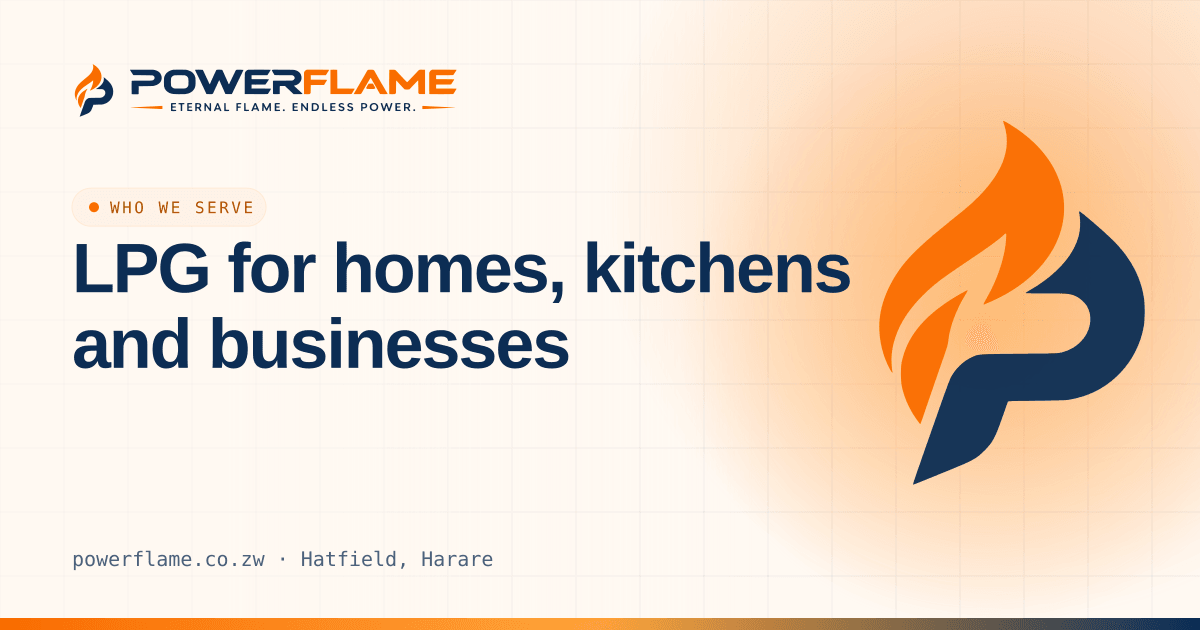
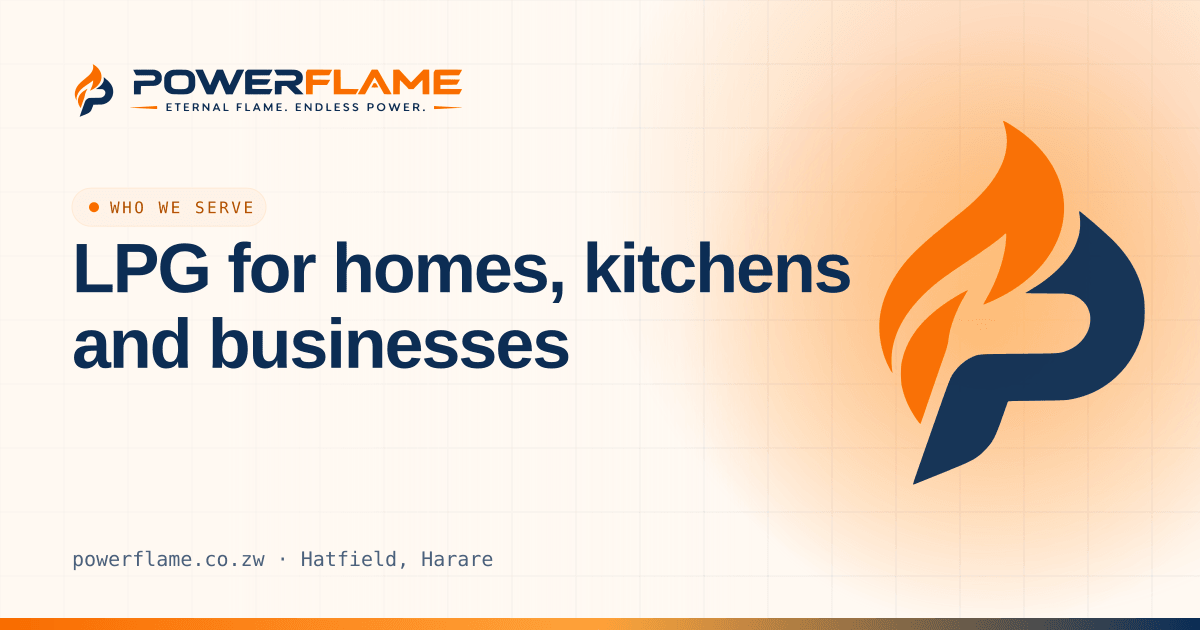
Add gradient for header fade effect in theme.css
- Introduced a new CSS variable `--gradient-header-fade` to create a smooth transition effect for the background behind the sticky header.
- The gradient fades the background color over the last 2rem to enhance visual continuity when scrolling.

Changed region(s): [[0.0925, 0.0905, 0.4008, 0.181], [0.925, 0.9952, 0.9558, 1.0], [0.4933, 0.9952, 0.5242, 1.0]]

diff --git a/src/components/ui/Logo/paths.ts b/src/components/ui/Logo/paths.ts
@@ -13,12 +13,12 @@ export const MARK_FLAME =
 export const MARK_P =
   'M28.84 12.19C29.13 13.82 28.95 15.18 28.27 16.62C27.28 18.7 25.19 20.75 22.49 22.31C22.09 22.54 21.76 22.75 21.76 22.77C21.76 22.8 22.99 22.82 24.49 22.82C27.53 22.82 27.69 22.84 28.52 23.25C29.06 23.52 29.75 24.19 29.98 24.71C30.99 26.86 29.62 29.54 27.06 30.42C26.18 30.73 26.31 30.72 20.94 30.76C15.33 30.81 15.68 30.78 14.68 31.23C13.59 31.72 12.48 32.81 11.92 33.93C11.72 34.31 10.38 38.05 8.56 43.29C8.16 44.44 7.63 45.95 7.39 46.64C7.14 47.33 6.96 47.92 6.97 47.95C7.01 48.01 7.12 47.96 8.82 47.26C9.58 46.95 10.96 46.39 11.88 46.02C14.9 44.79 15.34 44.55 16.44 43.44C17.46 42.41 17.83 41.72 18.73 39.12C19.11 38.04 19.44 37.11 19.46 37.06C19.51 36.98 20.01 36.96 23.24 36.94C27.26 36.9 27.31 36.9 28.68 36.55C33.11 35.43 36.49 31.76 37.33 27.21C37.48 26.41 37.51 24.51 37.39 23.62C37.01 20.77 35.65 18.19 33.27 15.81C32.32 14.85 29.01 12 28.86 12C28.84 12 28.82 12.09 28.84 12.19';
 
-/** Name block: "POWERFLAME" over the tagline, 251.23 × 32 viewBox */
-export const NAME_WIDTH = 251.23;
+/** Name block: "POWERFLAME" over the tagline, 255.53 × 32 viewBox */
+export const NAME_WIDTH = 255.53;
 export const NAME_HEIGHT = 32;
 /** Navy parts: "POWER" and the tagline lettering */
 export const NAME_NAVY =
-  'M0.12 0.08C-0.09 0.19-0.01 0.35 1.07 1.99C1.66 2.87 2.24 3.75 2.35 3.93L2.55 4.26 9.77 4.29C15.53 4.32 17.04 4.35 17.26 4.42C18.33 4.77 18.89 5.44 18.89 6.33C18.88 7.33 18.14 8.12 16.94 8.41C16.57 8.49 15.4 8.51 9.1 8.51C1.23 8.51 1.39 8.5 1.27 8.82C1.18 9.04 1.22 18.83 1.31 18.91C1.37 18.97 2.04 19 3.92 19C6.28 19 6.45 18.99 6.56 18.87C6.66 18.76 6.67 18.42 6.69 15.76L6.71 12.77 12.02 12.73C15.79 12.7 17.47 12.67 17.8 12.61C20.96 12.05 23.12 10.61 23.94 8.54C24.82 6.34 24.3 3.81 22.62 2.13C21.51 1.02 19.51 0.21 17.65 0.1C16.45 0.03 0.23 0.01 0.12 0.08M33.46 0.1C29.62 0.68 27.03 2.84 26.23 6.12C26.06 6.83 26.02 12.11 26.18 12.89C26.67 15.32 28.19 17.08 30.74 18.18C31.15 18.35 32.3 18.64 33.1 18.77C34.01 18.91 41.09 18.98 42.34 18.86C46.95 18.41 49.86 15.93 50.39 12C50.44 11.65 50.45 10.56 50.43 9.04C50.41 6.72 50.4 6.61 50.23 5.95C49.53 3.26 47.86 1.56 44.93 0.58C43.36 0.06 43.17 0.04 38.37 0.03C35.05 0.01 33.94 0.03 33.46 0.1M91.02 0.12C90.13 0.3 89.39 0.81 88.84 1.64C88.2 2.58 88.25 1.91 88.23 10.86C88.22 15.95 88.24 18.75 88.28 18.8C88.33 18.84 91.47 18.86 97.16 18.86C105.53 18.86 105.97 18.86 106.09 18.74C106.15 18.68 106.49 18.15 106.84 17.57C107.2 16.99 107.7 16.16 107.97 15.72C108.48 14.91 108.52 14.78 108.37 14.65C108.3 14.59 106.21 14.57 100.9 14.55L93.51 14.54 93.51 13.04L93.51 11.54 98.84 11.52L104.16 11.51 104.36 11.25C104.47 11.11 104.8 10.63 105.11 10.18C105.41 9.73 105.92 8.99 106.24 8.54C106.83 7.72 106.9 7.57 106.73 7.43C106.67 7.38 104.79 7.35 100.08 7.34L93.51 7.32 93.51 5.82L93.51 4.32 99.62 4.31L105.73 4.29 105.83 4.14C105.88 4.05 106.43 3.18 107.06 2.2C108.21 0.39 108.26 0.28 108.09 0.14C107.94 0.02 91.6 0 91.02 0.12M110.67 0.06C109.55 0.1 109.35 0.15 109.2 0.42C109.09 0.63 109.15 0.78 109.88 2.02C110.25 2.65 110.66 3.37 110.8 3.61C110.93 3.86 111.1 4.11 111.17 4.17C111.28 4.28 111.92 4.29 118.03 4.3L124.77 4.32 125.17 4.49C126.26 4.92 126.82 5.72 126.68 6.62C126.54 7.46 125.65 8.24 124.6 8.44C124.37 8.49 121.66 8.51 117.26 8.51L110.29 8.51 110.12 8.68L109.96 8.84 109.96 13.82C109.96 18.48 109.96 18.79 110.08 18.84C110.14 18.87 111.31 18.88 112.68 18.86L115.17 18.83 115.2 15.73L115.23 12.63 117.2 12.61L119.16 12.59 119.92 13.29C121.62 14.86 125.19 18.22 125.52 18.57L125.8 18.86 129.28 18.86C132.68 18.86 132.77 18.86 132.77 18.73C132.77 18.65 132.39 18.25 131.8 17.69C131.27 17.19 130.46 16.43 130.01 16C128.99 15.02 126.39 12.65 126.26 12.58C126.08 12.47 126.15 12.33 126.42 12.29C128.26 11.98 129.92 10.99 130.85 9.64C131.64 8.51 131.95 7.55 131.95 6.3C131.95 2.95 129.46 0.54 125.6 0.14C124.88 0.06 112.38 0 110.67 0.06M50.09 0.11C49.97 0.23 50.09 0.57 50.62 1.62C51.9 4.15 54.47 9.4 54.47 9.5C54.47 9.52 54.76 10.16 55.12 10.91C55.48 11.67 55.88 12.52 56.02 12.8C56.15 13.08 56.46 13.75 56.72 14.3C56.97 14.84 57.38 15.71 57.63 16.24C58.42 17.88 58.69 18.46 58.69 18.55C58.69 18.84 58.82 18.86 61.22 18.86C63.96 18.86 63.59 19.06 64.44 17.1C64.56 16.81 64.96 15.95 65.33 15.18C65.69 14.42 66.11 13.51 66.26 13.17C66.41 12.84 66.8 11.98 67.13 11.27C67.46 10.56 67.89 9.62 68.08 9.19C68.59 8.06 68.64 8 68.77 8.35C68.81 8.45 69.02 8.93 69.25 9.42C69.81 10.63 69.92 10.89 69.92 10.92C69.92 10.94 70.05 11.22 70.2 11.55C70.36 11.88 70.72 12.7 71.01 13.38C71.69 14.94 72.02 15.7 72.48 16.71C72.68 17.16 72.95 17.79 73.09 18.11C73.22 18.42 73.37 18.72 73.41 18.77C73.47 18.84 73.99 18.86 75.93 18.84L78.38 18.83 78.81 17.91C79.87 15.6 80.21 14.89 81.3 12.68C81.94 11.38 83.02 9.17 83.69 7.76C84.36 6.36 85.45 4.11 86.11 2.77C87.07 0.82 87.3 0.31 87.24 0.22C87.15 0.07 82.16 0 81.83 0.14C81.46 0.29 81.51 0.2 78.66 6.13C78.41 6.63 77.96 7.58 77.65 8.24C76.08 11.54 76.13 11.46 76 11.28C75.97 11.24 75.83 10.95 75.7 10.66C75.33 9.85 73.93 6.74 73.6 5.99C73.11 4.92 72.45 3.42 72.06 2.52C71.34 0.88 71.09 0.38 70.91 0.24C70.64 0.03 66.87-0.01 66.55 0.19C66.39 0.29 66.23 0.57 65.78 1.57C64.45 4.48 64.04 5.38 63.15 7.32C62.63 8.44 62.1 9.64 61.96 9.97C61.32 11.51 61.32 11.52 61.07 10.94C60.89 10.52 60.2 9.03 59.4 7.35C59.09 6.7 58.73 5.93 58.6 5.65C58.47 5.37 58.11 4.6 57.81 3.95C56.87 1.96 56.77 1.75 56.61 1.4C56.16 0.39 56.08 0.26 55.85 0.16C55.62 0.06 50.18 0.02 50.09 0.11M34.43 4.36C32.91 4.62 31.86 5.52 31.55 6.85C31.39 7.56 31.44 11.94 31.62 12.43C31.92 13.27 32.68 14 33.56 14.3C34.42 14.59 34.99 14.62 38.74 14.57L42.25 14.53 42.74 14.35C43.98 13.91 44.65 13.16 44.91 11.91C45.06 11.18 45.02 7.37 44.85 6.79C44.48 5.52 43.54 4.68 42.18 4.39C41.65 4.28 35.07 4.25 34.43 4.36M162.02 25.74C160.53 26.12 159.97 27.65 160.99 28.6C161.36 28.93 161.51 29 162.41 29.24C163.2 29.45 163.58 29.64 163.72 29.9C164.27 30.97 162.23 31.4 161.3 30.41C161.07 30.16 160.95 30.18 160.57 30.52L160.25 30.82 160.41 31.03C161.02 31.85 162.66 32.23 163.78 31.8C164.28 31.6 164.86 31.06 164.96 30.67C165.26 29.6 164.77 28.79 163.64 28.45C162.05 27.98 162.06 27.99 161.84 27.73C161.08 26.86 162.71 26.2 163.7 26.98L163.96 27.18 164.33 26.92C164.76 26.62 164.79 26.5 164.46 26.25C163.84 25.78 162.76 25.55 162.02 25.74M168.81 25.73C167.81 25.95 167.16 26.72 167.24 27.59C167.3 28.34 167.79 28.82 168.78 29.11C169.88 29.44 170.02 29.5 170.24 29.69C170.84 30.21 170.47 30.88 169.54 30.96C169.02 31.01 168.68 30.9 168.2 30.54C167.71 30.17 167.75 30.17 167.38 30.48C167 30.79 167.01 30.89 167.39 31.25C168.64 32.4 171.1 32.13 171.62 30.78C171.79 30.35 171.77 29.73 171.59 29.37C171.28 28.78 170.97 28.61 169.28 28.12C168.54 27.91 168.23 27.5 168.47 27.04C168.75 26.51 169.82 26.49 170.43 26.99C170.69 27.21 170.7 27.21 171.1 26.91C171.51 26.61 171.51 26.56 171.18 26.28C170.59 25.79 169.61 25.56 168.81 25.73M186.93 25.74C184.74 26.19 183.73 28.38 184.8 30.38C185.33 31.39 186.34 31.93 187.68 31.93C189.28 31.93 190.4 31.15 190.84 29.73C191.55 27.4 189.42 25.23 186.93 25.74M31.57 25.78C31.48 25.87 31.52 31.76 31.61 31.85C31.72 31.97 35.34 31.97 35.46 31.85C35.56 31.74 35.56 31.1 35.46 30.99C35.4 30.93 35 30.91 34.08 30.91C33.16 30.91 32.75 30.89 32.69 30.83C32.59 30.72 32.58 29.37 32.69 29.31C32.73 29.28 33.3 29.24 33.96 29.22L35.17 29.17 35.17 28.77L35.17 28.36 33.98 28.34C33.33 28.33 32.76 28.29 32.72 28.26C32.66 28.21 32.64 27.93 32.64 27.46L32.65 26.72 33.94 26.7C35.43 26.68 35.42 26.69 35.39 26.15L35.37 25.77 33.49 25.75C32.46 25.74 31.6 25.75 31.57 25.78M37.36 25.78C37.27 25.86 37.31 26.61 37.4 26.67C37.44 26.7 37.8 26.73 38.18 26.73C38.57 26.74 38.92 26.77 38.95 26.8C38.98 26.84 39.02 27.98 39.03 29.35L39.05 31.83 39.59 31.83L40.14 31.83 40.17 29.28L40.2 26.72 40.95 26.7C41.84 26.68 41.89 26.66 41.86 26.15L41.84 25.77 39.62 25.75C38.4 25.74 37.38 25.76 37.36 25.78M44.03 25.78C43.97 25.84 43.97 31.78 44.03 31.82C44.06 31.83 44.94 31.86 45.99 31.87L47.9 31.9 47.9 31.42L47.9 30.94 46.58 30.93C45.74 30.91 45.22 30.88 45.16 30.83C45.05 30.74 45.03 29.38 45.15 29.31C45.19 29.28 45.73 29.26 46.35 29.25L47.49 29.24 47.49 28.8L47.49 28.36 46.3 28.32L45.11 28.29 45.09 27.55C45.07 27.08 45.09 26.78 45.14 26.73C45.19 26.68 45.66 26.66 46.43 26.66C47.23 26.66 47.68 26.63 47.73 26.58C47.77 26.54 47.79 26.34 47.78 26.14L47.76 25.77 45.92 25.75C44.91 25.74 44.06 25.75 44.03 25.78M50.21 25.82C50.19 25.87 50.19 27.25 50.19 28.9L50.21 31.9 50.7 31.92C51.33 31.94 51.33 31.95 51.35 30.77L51.37 29.79 51.91 29.78C52.58 29.77 52.58 29.77 53.67 31.62L53.85 31.93 54.43 31.93C54.75 31.93 55.02 31.9 55.04 31.87C55.06 31.84 54.79 31.32 54.43 30.72C54.08 30.12 53.79 29.59 53.79 29.55C53.79 29.52 53.87 29.44 53.97 29.39C54.91 28.9 55.14 27.21 54.38 26.41C54.14 26.15 53.62 25.9 53.14 25.81C52.56 25.7 50.25 25.71 50.21 25.82M57.31 25.78C57.28 25.81 57.26 27.17 57.26 28.81C57.26 32.18 57.21 31.9 57.84 31.9C58.38 31.89 58.35 32.01 58.35 29.85C58.35 28.35 58.37 27.92 58.43 27.92C58.48 27.92 58.66 28.11 58.82 28.34C58.99 28.58 59.6 29.42 60.17 30.23C61.52 32.11 61.35 31.94 61.89 31.92L62.33 31.9 62.37 31.48C62.38 31.25 62.38 29.87 62.37 28.42L62.33 25.77 61.82 25.77L61.31 25.77 61.29 27.76C61.28 29.29 61.25 29.75 61.19 29.75C61.12 29.75 60.18 28.53 58.65 26.43L58.17 25.77 57.76 25.75C57.54 25.74 57.33 25.75 57.31 25.78M66.88 25.82C66.84 25.87 66.71 26.18 66.59 26.52C66.46 26.86 66.21 27.48 66.03 27.91C65.84 28.35 65.57 29 65.43 29.38C65.29 29.75 65.01 30.44 64.82 30.91C64.63 31.37 64.49 31.8 64.51 31.84C64.53 31.9 64.69 31.93 65.01 31.93C65.56 31.93 65.6 31.9 65.84 31.29C66.1 30.6 66.02 30.63 67.46 30.65L68.72 30.67 68.97 31.29L69.22 31.9 69.75 31.92C70.04 31.93 70.31 31.91 70.34 31.88C70.37 31.85 70.15 31.23 69.85 30.5C69.55 29.77 69.01 28.44 68.65 27.54C68.29 26.64 67.97 25.87 67.93 25.82C67.89 25.77 67.69 25.74 67.4 25.74C67.12 25.74 66.92 25.77 66.88 25.82M72.54 25.82C72.52 25.87 72.52 27.25 72.53 28.9L72.54 31.9 74.33 31.91C76.36 31.92 76.27 31.95 76.24 31.34L76.22 30.94 74.93 30.91L73.63 30.88 73.6 28.32L73.57 25.77 73.07 25.75C72.71 25.74 72.57 25.75 72.54 25.82M81.87 25.82C81.85 25.87 81.84 27.24 81.85 28.87L81.87 31.83 82.38 31.83L82.89 31.83 82.93 30.6L82.96 29.38 84.01 29.36C85.21 29.34 85.24 29.32 85.24 28.87C85.24 28.41 85.21 28.4 84.01 28.38L82.96 28.36 82.94 27.58C82.93 27.12 82.95 26.77 82.99 26.73C83.03 26.69 83.52 26.67 84.24 26.68C85.61 26.7 85.6 26.7 85.57 26.13L85.55 25.77 83.73 25.75C82.3 25.74 81.9 25.75 81.87 25.82M87.81 25.78C87.74 25.85 87.75 31.78 87.82 31.83C87.95 31.9 91.31 31.91 91.41 31.83C91.49 31.78 91.51 31.65 91.49 31.35L91.47 30.94 90.21 30.91L88.95 30.88 88.92 28.32L88.89 25.77 88.37 25.75C88.09 25.74 87.84 25.75 87.81 25.78M95.79 25.84C95.74 25.91 95.49 26.45 95.25 27.06C95 27.66 94.64 28.51 94.45 28.94C93.7 30.65 93.33 31.57 93.32 31.73C93.31 31.9 93.32 31.9 93.86 31.9L94.4 31.9 94.57 31.56C94.67 31.37 94.79 31.09 94.86 30.93L94.97 30.64 96.38 30.65L97.8 30.67 98.01 31.22C98.29 31.97 98.25 31.93 98.83 31.93C99.56 31.93 99.56 31.95 98.86 30.3C98.13 28.58 97.18 26.32 97.07 26.04L96.97 25.77 96.43 25.75C95.99 25.73 95.87 25.75 95.79 25.84M101.77 25.79C101.75 25.82 101.72 27.19 101.71 28.83L101.69 31.83 102.2 31.87C102.48 31.9 102.73 31.9 102.75 31.87C102.78 31.85 102.81 30.99 102.81 29.97C102.82 28.69 102.85 28.12 102.9 28.14C102.94 28.15 103.27 28.77 103.64 29.52C104.01 30.27 104.4 31.05 104.5 31.25L104.68 31.63 105.07 31.65L105.45 31.67 105.79 30.96C106.75 28.97 107.19 28.12 107.24 28.17C107.27 28.2 107.3 29.01 107.32 29.97C107.34 31.29 107.37 31.74 107.43 31.83C107.54 31.95 108.29 31.96 108.39 31.83C108.42 31.79 108.43 30.41 108.4 28.77L108.36 25.77 107.83 25.75L107.3 25.73 107.16 25.95C107.08 26.08 106.6 27.03 106.09 28.07C105.48 29.31 105.13 29.95 105.06 29.94C105.01 29.93 104.5 28.98 103.92 27.83L102.87 25.74 102.33 25.74C102.04 25.74 101.78 25.76 101.77 25.79M111.35 25.82C111.33 25.87 111.33 27.25 111.34 28.9L111.35 31.9 113.33 31.88C114.41 31.86 115.33 31.83 115.36 31.8C115.39 31.77 115.4 31.57 115.39 31.35L115.37 30.94 113.94 30.91L112.51 30.88 112.51 30.09L112.51 29.31 113.74 29.28L114.96 29.24 115.01 28.87C115.08 28.3 115.15 28.33 113.76 28.31L112.51 28.29 112.51 27.51L112.51 26.72 113.87 26.69L115.23 26.66 115.28 26.25C115.3 26.02 115.31 25.82 115.29 25.79C115.23 25.69 111.39 25.73 111.35 25.82M125.1 25.82C125.09 25.87 125.08 27.24 125.09 28.87L125.11 31.83 127.13 31.85C129.41 31.87 129.25 31.91 129.17 31.32L129.12 30.94 127.73 30.91L126.33 30.88 126.27 30.14C126.19 29.16 126.11 29.22 127.58 29.19L128.78 29.17 128.78 28.77L128.78 28.36 127.6 28.34C126.86 28.33 126.38 28.29 126.32 28.25C126.21 28.15 126.19 26.79 126.3 26.72C126.34 26.7 126.98 26.67 127.71 26.67L129.06 26.66 129.06 26.21L129.06 25.77 127.1 25.75C125.57 25.74 125.13 25.75 125.1 25.82M131.71 25.81C131.68 25.85 131.66 27.2 131.65 28.8C131.65 32.17 131.6 31.93 132.29 31.87L132.73 31.83 132.75 29.84C132.77 27.72 132.79 27.6 133.08 28.03C133.14 28.14 133.43 28.51 133.72 28.87C134.01 29.22 134.63 30.04 135.11 30.67C135.59 31.31 136.04 31.86 136.11 31.89C136.18 31.93 136.38 31.93 136.59 31.89L136.95 31.83 136.95 28.8L136.95 25.77 136.49 25.75C135.77 25.72 135.81 25.6 135.84 27.77C135.87 29.95 135.87 29.96 135.32 29.23C135.13 28.98 134.43 28.09 133.77 27.25L132.56 25.74 132.16 25.74C131.93 25.74 131.73 25.77 131.71 25.81M139.81 25.81C139.79 25.86 139.79 27.24 139.79 28.87L139.81 31.83 141.24 31.85C143.18 31.87 143.72 31.73 144.48 30.98C144.92 30.54 145.12 30.16 145.27 29.47C145.61 27.85 144.95 26.61 143.39 25.94C143.04 25.79 142.9 25.78 141.43 25.75C140.14 25.73 139.84 25.74 139.81 25.81M147.93 25.78C147.84 25.87 147.87 31.78 147.97 31.84C148.12 31.94 151.61 31.93 151.7 31.83C151.74 31.78 151.76 31.56 151.75 31.34L151.73 30.94 150.45 30.93C149.51 30.91 149.16 30.89 149.14 30.82C149.13 30.78 149.1 29.65 149.08 28.31C149.06 26.97 149.03 25.84 149 25.8C148.96 25.73 148 25.71 147.93 25.78M154.09 25.82C154.05 25.88 154.02 26.9 154.03 28.87L154.04 31.83 156.01 31.88C157.46 31.92 158 31.91 158.07 31.85C158.14 31.8 158.16 31.65 158.15 31.36L158.13 30.94 156.7 30.91L155.27 30.88 155.22 30.13C155.18 29.63 155.19 29.36 155.24 29.3C155.3 29.23 155.64 29.21 156.55 29.19L157.79 29.17 157.79 28.77L157.79 28.36 156.53 28.32L155.27 28.29 155.21 27.59C155.18 27.2 155.17 26.84 155.19 26.79C155.22 26.71 155.48 26.69 156.59 26.69C158.14 26.69 158.11 26.7 158.08 26.13L158.06 25.77 156.11 25.75C154.61 25.74 154.15 25.75 154.09 25.82M177.8 25.82C177.78 25.87 177.78 27.24 177.79 28.87L177.8 31.83 178.31 31.83L178.83 31.83 178.86 30.88L178.89 29.92 179.83 29.88C180.93 29.82 181.31 29.72 181.8 29.33C182.27 28.96 182.47 28.51 182.48 27.8C182.5 26.72 181.94 26.06 180.78 25.81C180.26 25.7 177.84 25.71 177.8 25.82M192.78 25.82C192.76 25.87 193.07 26.86 193.47 28.02C193.87 29.18 194.31 30.49 194.46 30.94C194.8 31.96 194.77 31.93 195.37 31.93C195.96 31.93 195.93 31.97 196.24 30.98C197.12 28.14 197.27 27.71 197.36 27.71C197.41 27.71 197.45 27.76 197.45 27.82C197.45 27.95 198.56 31.46 198.69 31.72C198.77 31.89 198.8 31.9 199.35 31.9L199.93 31.9 200.69 29.65C201.11 28.42 201.56 27.09 201.7 26.7C202.05 25.69 202.06 25.73 201.34 25.75L200.75 25.77 200.47 26.66C200.31 27.14 200 28.13 199.78 28.85C199.57 29.57 199.36 30.16 199.32 30.16C199.28 30.16 198.92 29.17 198.52 27.97L197.8 25.77 197.36 25.75C196.87 25.73 196.83 25.75 196.71 26.21C196.46 27.12 195.44 30.09 195.38 30.07C195.35 30.06 195.03 29.12 194.67 27.98C194.32 26.84 194 25.87 193.96 25.82C193.91 25.77 193.7 25.74 193.35 25.74C192.98 25.74 192.8 25.76 192.78 25.82M204.15 25.82C204.13 25.87 204.13 27.24 204.14 28.87L204.15 31.83 206.16 31.83L208.17 31.83 208.17 31.39L208.17 30.94 206.77 30.91L205.38 30.88 205.36 30.14C205.35 29.65 205.37 29.37 205.42 29.3C205.48 29.23 205.74 29.21 206.6 29.21C207.87 29.21 207.88 29.2 207.85 28.69L207.83 28.36 206.6 28.32L205.38 28.29 205.32 27.6C205.23 26.61 205.11 26.69 206.66 26.69C208.18 26.69 208.16 26.7 208.12 26.13L208.1 25.77 206.14 25.75C204.61 25.74 204.18 25.75 204.15 25.82M210.76 25.8C210.7 25.9 210.7 31.8 210.77 31.86C210.8 31.89 211.06 31.9 211.34 31.87L211.85 31.83 211.88 30.81L211.91 29.79 212.46 29.77C213.12 29.74 213.08 29.72 213.72 30.77C214.46 32 214.38 31.93 215.05 31.93C215.76 31.93 215.79 31.89 215.44 31.35C215.29 31.13 214.99 30.66 214.76 30.31C214.32 29.65 214.3 29.55 214.57 29.43C215.14 29.17 215.5 28.59 215.54 27.85C215.59 27.1 215.48 26.79 215.05 26.37C214.48 25.81 214.14 25.74 212.29 25.74C211.46 25.74 210.78 25.76 210.76 25.8M178.9 26.67C178.8 26.77 178.85 28.78 178.96 28.87C179.11 28.99 180.46 28.93 180.74 28.78C181.08 28.6 181.27 28.29 181.29 27.85C181.35 27.02 180.82 26.62 179.64 26.62C179.26 26.62 178.93 26.64 178.9 26.67M187.3 26.67C186.3 26.83 185.52 27.89 185.62 28.93C185.72 30.04 186.32 30.73 187.34 30.92C189.29 31.28 190.51 28.89 189.18 27.32C188.83 26.9 187.87 26.57 187.3 26.67M211.91 26.7C211.89 26.75 211.89 27.26 211.9 27.82L211.91 28.83 212.73 28.83C213.43 28.83 213.59 28.81 213.82 28.69C214.61 28.28 214.61 27.21 213.82 26.8C213.47 26.62 211.98 26.54 211.91 26.7M51.37 26.76C51.3 26.87 51.29 28.68 51.36 28.78C51.43 28.89 52.48 28.9 52.86 28.79C53 28.75 53.23 28.62 53.37 28.5C53.6 28.29 53.61 28.24 53.64 27.8C53.67 27.26 53.5 26.97 53.06 26.78C52.79 26.67 51.43 26.65 51.37 26.76M140.97 26.78C140.95 26.82 140.94 27.76 140.95 28.87L140.97 30.88 141.71 30.9C142.63 30.92 143.01 30.81 143.46 30.39C144.63 29.3 144.22 27.23 142.75 26.79C142.31 26.66 141.01 26.65 140.97 26.78M95.84 28.39C95.59 29.03 95.4 29.58 95.42 29.62C95.48 29.72 97.28 29.71 97.31 29.6C97.34 29.52 97.2 29.14 96.74 28.07C96.6 27.72 96.48 27.39 96.48 27.33C96.48 27.28 96.44 27.23 96.39 27.23C96.33 27.23 96.11 27.7 95.84 28.39M67.3 27.37C67.18 27.56 66.46 29.58 66.49 29.63C66.54 29.7 68.2 29.7 68.25 29.63C68.29 29.56 67.46 27.3 67.39 27.3C67.37 27.3 67.32 27.33 67.3 27.37M117.82 30.71C117.17 31.28 117.9 32.3 118.67 31.9C119.15 31.65 119.23 31.11 118.85 30.73C118.53 30.42 118.17 30.41 117.82 30.71M218.24 30.63C217.62 31.01 217.89 31.93 218.62 31.93C218.89 31.93 218.97 31.9 219.15 31.71C219.77 31.07 219.01 30.16 218.24 30.63';
+  'M2.49 0.09C2.46 0.14 2.72 0.72 3.08 1.38C3.44 2.04 3.91 2.92 4.13 3.33C4.35 3.74 4.6 4.16 4.68 4.25C4.81 4.41 5.19 4.42 11.27 4.41L17.72 4.4 18.2 4.6C19.63 5.22 19.95 6.96 18.81 7.96C18.13 8.56 18.37 8.54 10.44 8.54C4.45 8.54 3.2 8.56 3.11 8.67C3.03 8.76 3.01 10.21 3.03 13.9L3.05 19 5.68 19L8.3 19 8.33 15.91C8.34 14.1 8.39 12.78 8.45 12.72C8.51 12.64 9.86 12.6 13.49 12.58C18.92 12.56 19.33 12.53 20.78 12C22.58 11.35 23.74 10.15 24.27 8.4C24.54 7.5 24.52 5.14 24.23 4.28C23.51 2.13 22.28 1.06 19.61 0.27C18.91 0.06 18.88 0.05 10.73 0.02C5.17 0 2.53 0.02 2.49 0.09M33.36 0.1C29.46 0.69 27.05 2.76 26.41 6.08C26.25 6.91 26.22 11.99 26.37 12.95C26.79 15.59 28.41 17.56 30.91 18.46C32.39 18.99 32.34 18.98 37.72 19.03C43.13 19.07 43.7 19.04 45.09 18.61C48.12 17.66 49.67 15.78 50.11 12.53C50.3 11.09 50.19 6.33 49.94 5.42C49.3 3.08 47.71 1.44 45.33 0.67C43.38 0.04 43.65 0.06 38.57 0.04C36.01 0.03 33.67 0.05 33.36 0.1M50.16 0.09C50.13 0.13 50.67 1.28 51.34 2.64C52.46 4.89 53.68 7.4 53.68 7.46C53.68 7.48 53.97 8.11 54.33 8.87C54.7 9.63 54.99 10.26 54.99 10.27C54.99 10.29 55.57 11.56 56.27 13.1C56.97 14.65 57.84 16.56 58.2 17.36C58.57 18.16 58.9 18.87 58.96 18.93C59.03 19.02 59.67 19.05 61.57 19.05L64.09 19.05 64.23 18.83C64.31 18.71 64.58 18.11 64.84 17.49C65.59 15.67 66.61 13.24 67.01 12.34C67.21 11.88 67.71 10.71 68.11 9.76C68.54 8.74 68.9 8.01 68.98 8C69.07 7.98 69.24 8.28 69.51 8.89C70.95 12.23 72.51 15.93 73.01 17.17C73.33 17.97 73.65 18.72 73.72 18.84L73.86 19.05 76.4 19.03L78.95 19 79.57 17.69C79.91 16.96 80.34 16.03 80.53 15.62C81.68 13.15 82.71 10.94 83.5 9.29C83.78 8.7 84.21 7.77 84.46 7.23C84.7 6.68 85.42 5.18 86.05 3.89C87.81 0.29 87.86 0.18 87.77 0.08C87.61-0.08 82.19 0.02 82.1 0.19C82.06 0.27 81.48 1.53 80.81 3C80.14 4.47 79.42 6.06 79.2 6.52C78.99 6.99 78.54 7.94 78.22 8.63C77.15 10.91 76.84 11.59 76.75 11.81C76.58 12.26 76.51 12.15 75.26 9.1C74.56 7.4 73.39 4.57 72.81 3.2C72.6 2.72 72.26 1.89 72.06 1.37C71.85 0.85 71.62 0.33 71.54 0.21L71.41 0 69.09 0.02L66.77 0.05 64.94 4.32C63.93 6.67 62.82 9.24 62.48 10.04C62.13 10.84 61.81 11.61 61.76 11.75C61.57 12.26 61.45 12.12 60.83 10.7C60.57 10.1 60.04 8.9 59.64 8.02C59.24 7.15 58.86 6.3 58.79 6.15C58.72 5.99 58.51 5.53 58.32 5.11C58.13 4.7 57.73 3.81 57.43 3.14C57.13 2.47 56.78 1.69 56.66 1.41C56.53 1.12 56.33 0.69 56.23 0.45L56.03 0 53.13 0C51.47 0 50.19 0.04 50.16 0.09M90.27 0.34C89.53 0.96 89.04 1.45 88.79 1.83L88.54 2.21 88.55 10.52C88.55 15.09 88.59 18.88 88.62 18.94C88.67 19.02 91.12 19.05 98.07 19.05L107.44 19.05 107.79 18.42C107.98 18.07 108.49 17.17 108.91 16.42C109.34 15.68 109.66 15.03 109.64 14.99C109.62 14.95 106.12 14.92 101.87 14.92C95.41 14.92 94.13 14.9 94.04 14.79C93.96 14.7 93.94 14.19 93.96 13.17L93.98 11.68 99.65 11.66C103.83 11.64 105.35 11.61 105.45 11.52C105.53 11.46 105.87 10.99 106.21 10.47C106.55 9.95 107.14 9.09 107.52 8.55C107.94 7.98 108.19 7.55 108.14 7.5C108.09 7.45 105.04 7.4 101.02 7.39L93.98 7.37 93.98 5.91L93.98 4.46 100.57 4.43L107.16 4.41 107.4 4.09C107.8 3.57 109.7 0.17 109.65 0.08C109.62 0.04 105.58 0 100.14 0L90.68 0 90.27 0.34M110.95 0.14C110.92 0.22 110.94 0.34 110.99 0.4C111.04 0.46 111.5 1.32 112 2.3C112.51 3.28 112.98 4.16 113.06 4.25C113.2 4.41 113.55 4.42 119.6 4.4C125.99 4.38 125.99 4.38 126.45 4.59C128.26 5.39 128.19 7.72 126.34 8.4C125.92 8.56 125.36 8.57 118.73 8.59C114.32 8.6 111.53 8.64 111.48 8.7C111.42 8.75 111.4 10.73 111.41 13.89L111.44 19 113.92 19.03C115.44 19.04 116.43 19.02 116.49 18.96C116.55 18.91 116.58 17.69 116.58 15.84C116.57 13.94 116.61 12.77 116.67 12.69C116.74 12.61 117.24 12.57 118.57 12.57L120.39 12.57 120.84 12.96C121.09 13.17 122.58 14.62 124.16 16.2L127.03 19.05 130.28 19.05C132.94 19.05 133.54 19.03 133.54 18.92C133.54 18.86 132.1 17.39 130.35 15.66C128.59 13.94 127.16 12.48 127.16 12.41C127.16 12.34 127.29 12.29 127.51 12.29C129.2 12.29 131.6 10.72 132.38 9.1C132.93 7.97 133.09 5.99 132.75 4.57C132.17 2.14 129.97 0.5 126.76 0.1C125.4-0.07 111.02-0.03 110.95 0.14M34.77 4.42C33.33 4.55 32.11 5.34 31.77 6.36C31.51 7.16 31.59 12.44 31.88 13.07C32.29 13.95 33.11 14.55 34.38 14.9C35.25 15.14 41.2 15.14 42.23 14.9C43.64 14.56 44.58 13.79 44.93 12.67C45.17 11.89 45.17 7.12 44.92 6.41C44.61 5.52 43.75 4.79 42.7 4.5C42.24 4.38 35.96 4.31 34.77 4.42M165.68 25.83C164.83 26.09 164.4 26.48 164.22 27.13C163.94 28.18 164.54 28.85 166.16 29.29C167.4 29.62 167.81 30.21 167.22 30.8C166.82 31.2 165.84 31.17 165.28 30.72C164.71 30.27 164.7 30.27 164.4 30.55C164.04 30.9 164.06 30.98 164.53 31.39C165.99 32.64 168.63 31.9 168.63 30.24C168.64 29.25 168.17 28.83 166.51 28.35C165.55 28.07 165.19 27.65 165.41 27.08C165.6 26.58 166.61 26.51 167.26 26.94C167.66 27.21 167.73 27.22 167.98 27.12C168.46 26.92 168.51 26.77 168.21 26.47C167.67 25.9 166.46 25.6 165.68 25.83M192.28 25.86C189.42 26.63 189.07 30.46 191.74 31.68C192.53 32.04 193.86 32.07 194.55 31.75C195.11 31.49 195.79 30.87 196.11 30.32C196.49 29.68 196.49 28.15 196.11 27.44C195.41 26.11 193.81 25.45 192.28 25.86M35.33 25.89L34.49 25.95 34.49 26.32L34.49 26.7 35.28 26.74L36.08 26.79 36.13 29.33L36.18 31.86 36.69 31.86L37.21 31.86 37.22 29.44C37.23 28.1 37.26 26.95 37.29 26.88C37.33 26.79 37.56 26.74 38.12 26.73L38.9 26.7 38.93 26.39C38.98 25.84 38.88 25.8 37.45 25.82C36.75 25.83 35.8 25.87 35.33 25.89M42.99 25.88C42.24 25.89 41.58 25.95 41.52 26C41.39 26.11 41.43 31.7 41.56 31.84C41.6 31.88 42.49 31.9 43.55 31.88L45.47 31.86 45.47 31.48L45.47 31.11 44.11 31.08C43.28 31.07 42.71 31.02 42.63 30.95C42.54 30.87 42.51 30.64 42.53 30.09L42.56 29.33 43.72 29.3C44.95 29.27 45.14 29.21 45.14 28.86C45.14 28.5 44.95 28.44 43.72 28.41L42.56 28.39 42.56 27.59L42.56 26.79 43.96 26.74L45.37 26.7 45.4 26.35C45.44 25.86 45.3 25.83 42.99 25.88M96.97 25.93C96.87 26.07 96.18 27.65 95.24 29.87C94.82 30.84 94.51 31.7 94.54 31.78C94.58 31.88 94.72 31.91 95.08 31.89L95.56 31.86 95.82 31.25L96.08 30.64 97.46 30.64L98.85 30.64 99.1 31.25L99.34 31.86 99.88 31.89C100.32 31.91 100.41 31.89 100.41 31.76C100.41 31.68 100.04 30.74 99.6 29.67C99.15 28.6 98.64 27.37 98.46 26.93C98.28 26.49 98.08 26.07 98.01 26C97.85 25.83 97.06 25.77 96.97 25.93M103.05 25.94C102.97 26.03 102.95 26.91 102.97 28.96L102.99 31.86 103.51 31.86L104.02 31.86 104.05 30.15C104.07 28.87 104.1 28.43 104.19 28.44C104.25 28.44 104.62 29.05 105.01 29.81C106.02 31.78 105.98 31.72 106.37 31.72L106.71 31.72 107.5 30.08C108.53 27.92 108.56 27.93 108.6 30.15L108.62 31.86 109.09 31.86L109.56 31.86 109.58 28.94C109.61 25.69 109.64 25.81 108.97 25.88L108.58 25.92 108.12 26.83C106.77 29.45 106.43 30.08 106.33 30.08C106.26 30.08 105.74 29.18 105.16 28.08C104.58 26.98 104.06 26.05 104.02 26C103.85 25.85 103.16 25.8 103.05 25.94M172.34 25.95C171.88 26.11 171.38 26.66 171.3 27.09C171.1 28.17 171.62 28.81 173.11 29.27C174.15 29.59 174.48 29.84 174.48 30.32C174.48 30.82 174.18 31.01 173.38 31.01C172.75 31.01 172.64 30.99 172.25 30.71C171.74 30.35 171.64 30.34 171.37 30.62C171.08 30.94 171.12 31.1 171.57 31.43C173.34 32.74 176.07 31.65 175.58 29.84C175.38 29.09 174.93 28.76 173.56 28.34C172.67 28.06 172.39 27.85 172.39 27.45C172.39 26.63 173.85 26.35 174.44 27.06C174.63 27.28 174.95 27.25 175.2 26.98L175.42 26.74 175.17 26.48C174.56 25.84 173.31 25.61 172.34 25.95M182.76 25.91C182.73 25.98 182.72 27.35 182.73 28.95L182.76 31.86 183.27 31.86L183.79 31.86 183.84 30.87L183.88 29.89 185.01 29.84C185.92 29.79 186.21 29.75 186.53 29.58C187.92 28.85 187.79 26.67 186.32 26.03C185.81 25.81 182.83 25.71 182.76 25.91M198.88 25.96C198.86 26.02 198.93 26.32 199.04 26.62C199.21 27.09 200.76 31.44 200.87 31.79C200.9 31.87 201.11 31.91 201.48 31.91C201.85 31.91 202.06 31.87 202.08 31.79C202.1 31.72 202.34 30.97 202.61 30.12C202.88 29.27 203.12 28.45 203.16 28.29C203.3 27.68 203.48 27.99 204.12 29.94L204.75 31.86 205.32 31.89C205.73 31.91 205.9 31.88 205.93 31.79C206.03 31.45 207.07 28.59 207.52 27.41C207.8 26.66 208.02 26.02 207.99 25.98C207.91 25.85 206.94 25.89 206.86 26.02C206.78 26.14 206.67 26.44 205.87 28.65C205.6 29.42 205.33 30.05 205.28 30.06C205.24 30.07 204.93 29.23 204.6 28.2C203.78 25.65 203.9 25.88 203.39 25.92L202.95 25.95 202.32 27.95C201.7 29.91 201.56 30.24 201.44 30.04C201.41 29.99 201.1 29.09 200.76 28.04C200.43 26.99 200.1 26.09 200.04 26.03C199.87 25.86 198.94 25.81 198.88 25.96M217.81 25.95C217.74 26.02 217.72 27.09 217.73 28.96L217.76 31.86 218.28 31.86L218.79 31.86 218.82 30.88C218.85 29.7 218.88 29.65 219.63 29.65C220.33 29.65 220.37 29.69 221.14 30.99L221.68 31.91 222.22 31.91C222.52 31.91 222.79 31.86 222.83 31.81C222.86 31.76 222.56 31.23 222.17 30.64C221.78 30.04 221.47 29.51 221.47 29.47C221.47 29.43 221.61 29.31 221.79 29.2C222.37 28.86 222.69 27.95 222.49 27.23C222.33 26.65 221.83 26.17 221.17 25.96C220.53 25.76 217.97 25.75 217.81 25.95M28.1 26.02C28.08 26.08 28.07 27.42 28.08 29L28.11 31.86 30.12 31.86L32.14 31.86 32.14 31.48L32.14 31.11 30.69 31.06L29.23 31.01 29.23 30.17L29.23 29.33 30.4 29.3C31.62 29.27 31.81 29.21 31.81 28.86C31.81 28.5 31.62 28.44 30.4 28.41L29.23 28.39 29.23 27.59L29.23 26.79 30.64 26.74L32.05 26.7 32.05 26.32L32.05 25.95 30.1 25.92C28.58 25.9 28.14 25.92 28.1 26.02M48.28 26.02C48.25 26.08 48.24 27.42 48.26 29L48.28 31.86 48.8 31.86L49.31 31.86 49.36 30.83L49.41 29.79 50.02 29.77C50.77 29.73 50.85 29.81 51.5 31.02L51.94 31.86 52.49 31.89C52.8 31.9 53.08 31.88 53.13 31.84C53.17 31.79 52.92 31.27 52.54 30.64L51.88 29.53 52.26 29.2C52.78 28.77 52.93 28.46 52.93 27.78C52.93 26.87 52.53 26.29 51.72 26.01C51.26 25.85 48.34 25.86 48.28 26.02M55.88 26.02C55.85 26.08 55.84 27.42 55.86 29L55.88 31.86 56.35 31.86L56.82 31.86 56.85 29.96C56.87 28.53 56.9 28.06 56.99 28.06C57.05 28.06 57.46 28.49 57.9 29.01C58.34 29.54 58.87 30.16 59.07 30.4C59.28 30.63 59.64 31.07 59.87 31.37C60.27 31.89 60.31 31.91 60.67 31.89L61.04 31.86 61.04 28.9L61.04 25.95 60.53 25.95L60.01 25.95 59.99 27.81C59.97 29.32 59.94 29.66 59.83 29.64C59.72 29.61 57.32 26.82 56.87 26.18C56.65 25.88 55.97 25.77 55.88 26.02M66 26.02C65.95 26.08 65.68 26.66 65.41 27.31C65.14 27.95 64.76 28.86 64.56 29.33C63.4 32.05 63.42 31.93 64.16 31.89L64.69 31.86 64.94 31.25L65.19 30.64 66.53 30.64L67.88 30.64 68.13 31.25L68.38 31.86 68.88 31.89C69.44 31.92 69.6 31.83 69.45 31.57C69.39 31.47 69.08 30.74 68.75 29.94C67.59 27.12 67.17 26.13 67.07 26.02C67.02 25.95 66.78 25.9 66.53 25.9C66.29 25.9 66.05 25.95 66 26.02M72.06 25.94C72.04 25.96 72.02 27.3 72.03 28.92L72.04 31.86 73.91 31.86L75.78 31.86 75.81 31.51C75.84 31.06 75.84 31.06 74.35 30.98L73.15 30.92 73.1 28.43L73.06 25.95 72.58 25.92C72.32 25.9 72.09 25.91 72.06 25.94M82.15 26.02C82.13 26.08 82.12 27.42 82.13 29L82.16 31.86 82.67 31.86L83.19 31.86 83.24 30.69L83.28 29.51 84.36 29.47L85.44 29.42 85.44 29L85.44 28.57 84.36 28.53L83.28 28.48 83.28 27.64L83.28 26.79 84.65 26.74L86.01 26.7 86.01 26.32L86.01 25.95 84.1 25.92C82.62 25.9 82.19 25.92 82.15 26.02M88.72 26.01C88.7 26.08 88.69 27.42 88.7 29L88.73 31.86 90.56 31.86L92.39 31.86 92.39 31.48L92.39 31.11 91.21 31.04C90.57 31 89.99 30.95 89.93 30.93C89.84 30.89 89.8 30.27 89.78 28.41L89.76 25.95 89.27 25.92C88.92 25.9 88.76 25.93 88.72 26.01M112.75 26.02C112.72 26.08 112.71 27.42 112.73 29L112.75 31.86 114.72 31.86L116.69 31.86 116.69 31.48L116.69 31.11 115.32 31.08C114.37 31.06 113.91 31.02 113.85 30.94C113.8 30.88 113.79 30.5 113.82 30.08L113.88 29.33 115.1 29.28L116.32 29.23 116.32 28.86L116.32 28.48 115.1 28.43L113.88 28.39 113.88 27.59L113.88 26.79 115.18 26.77C116.62 26.74 116.76 26.69 116.72 26.24L116.69 25.95 114.74 25.92C113.23 25.9 112.78 25.92 112.75 26.02M127.57 26.02C127.55 26.08 127.54 27.42 127.55 29L127.58 31.86 129.55 31.86L131.52 31.86 131.52 31.48L131.52 31.11 130.16 31.08C129.41 31.07 128.76 31.02 128.72 30.97C128.6 30.86 128.6 29.48 128.71 29.37C128.76 29.32 129.35 29.27 130.02 29.26L131.24 29.23 131.27 28.97C131.32 28.49 131.19 28.43 129.92 28.43C128.54 28.43 128.54 28.44 128.58 27.48L128.61 26.79 130.06 26.74L131.52 26.7 131.52 26.32L131.52 25.95 129.57 25.92C128.05 25.9 127.61 25.92 127.57 26.02M134.42 26.02C134.4 26.08 134.39 27.42 134.4 29L134.43 31.86 134.9 31.86L135.37 31.86 135.44 30.26C135.47 29.39 135.48 28.54 135.46 28.37C135.35 27.73 135.67 28 137.29 29.92C138.92 31.85 138.94 31.86 139.31 31.86L139.68 31.86 139.68 28.9L139.68 25.95 139.21 25.95L138.74 25.95 138.72 27.85C138.7 29.36 138.67 29.75 138.57 29.75C138.46 29.75 136.68 27.73 135.57 26.35C135.25 25.95 135.17 25.9 134.84 25.9C134.63 25.9 134.45 25.95 134.42 26.02M142.78 26.01C142.75 26.08 142.74 27.42 142.76 29L142.78 31.86 144.42 31.86C146 31.86 146.09 31.85 146.59 31.61C147.75 31.07 148.22 30.28 148.21 28.9C148.2 27.55 147.71 26.71 146.62 26.17C146.19 25.96 146.03 25.94 144.49 25.92C143.18 25.89 142.82 25.91 142.78 26.01M151.11 26.01C150.99 26.16 151.04 31.71 151.16 31.83C151.21 31.88 152.04 31.9 153.01 31.88L154.78 31.86 154.87 31.56C155.02 31.03 154.89 30.98 153.49 30.95L152.26 30.92 152.21 28.43L152.16 25.95 151.69 25.92C151.38 25.9 151.17 25.94 151.11 26.01M157.48 26.03C157.4 26.12 157.38 26.96 157.39 29.01L157.42 31.86 159.48 31.86L161.55 31.86 161.55 31.48L161.55 31.11 160.05 31.06L158.55 31.01 158.55 30.17L158.55 29.33 159.86 29.28L161.17 29.23 161.2 28.97C161.26 28.49 161.12 28.43 159.86 28.43C158.48 28.43 158.48 28.44 158.52 27.48L158.55 26.79 160 26.74L161.45 26.7 161.45 26.32L161.45 25.95 159.52 25.92C157.96 25.9 157.57 25.92 157.48 26.03M210.72 26.02C210.69 26.08 210.68 27.42 210.7 29L210.72 31.86 212.79 31.86L214.85 31.86 214.85 31.48L214.85 31.11 213.35 31.06L211.85 31.01 211.85 30.17L211.85 29.33 213.11 29.28L214.38 29.23 214.41 28.94C214.45 28.5 214.3 28.44 213.01 28.41L211.85 28.39 211.85 27.59L211.85 26.79 213.26 26.74L214.66 26.7 214.66 26.32L214.66 25.95 212.71 25.92C211.2 25.9 210.75 25.92 210.72 26.02M183.94 26.78C183.87 26.87 183.84 27.26 183.86 27.93L183.88 28.95 184.79 28.95C185.56 28.95 185.72 28.92 185.9 28.76C186.67 28.07 186.44 27 185.48 26.75C184.89 26.61 184.07 26.62 183.94 26.78M192.54 26.79C190.69 27.47 190.55 30.01 192.32 30.84C194.46 31.83 196.35 28.96 194.64 27.31C194.02 26.7 193.28 26.52 192.54 26.79M218.93 26.79C218.77 26.94 218.82 28.58 218.98 28.71C219.24 28.93 220.75 28.8 221.03 28.54C221.55 28.05 221.52 27.25 220.98 26.9C220.73 26.74 219.07 26.65 218.93 26.79M49.43 26.8C49.39 26.84 49.36 27.28 49.36 27.78C49.36 28.94 49.37 28.95 50.46 28.86C51.5 28.77 51.8 28.53 51.8 27.8C51.8 27.04 51.47 26.8 50.36 26.76C49.89 26.74 49.47 26.76 49.43 26.8M143.92 26.81C143.79 26.94 143.85 30.94 143.98 30.99C144.27 31.1 145.56 30.97 145.96 30.79C147.59 30.07 147.41 27.39 145.7 26.88C145.23 26.74 144.04 26.69 143.92 26.81M65.99 28.54C65.74 29.18 65.61 29.61 65.67 29.67C65.71 29.72 66.13 29.74 66.59 29.73C67.36 29.7 67.42 29.69 67.41 29.51C67.39 29.19 66.65 27.54 66.52 27.52C66.44 27.5 66.25 27.87 65.99 28.54M96.94 28.53C96.72 29.1 96.56 29.59 96.6 29.63C96.72 29.75 98.33 29.75 98.37 29.62C98.4 29.56 98.25 29.11 98.06 28.62C97.86 28.13 97.7 27.68 97.69 27.61C97.69 27.55 97.61 27.5 97.52 27.5C97.38 27.5 97.25 27.73 96.94 28.53M119.46 30.78C119.03 31.21 119.37 32 119.99 32C120.45 32 120.68 31.77 120.68 31.3C120.68 30.64 119.92 30.32 119.46 30.78M225.52 30.81C225.1 31.26 225.44 32 226.06 32C226.68 32 227.05 31.2 226.63 30.78C226.36 30.51 225.78 30.53 225.52 30.81';
 /** Orange parts: "FLAME" and the tagline rules */
 export const NAME_ORANGE =
-  'M135.44 0.34C134.61 0.75 134.03 1.51 133.86 2.44C133.75 3.02 133.78 18.77 133.89 18.86C133.95 18.91 134.64 18.93 136.01 18.91L138.04 18.89 138.33 18.71C138.49 18.61 138.7 18.38 138.8 18.2L139 17.87 139.03 14.88L139.06 11.88 144.18 11.86L149.31 11.85 149.59 11.35C149.75 11.08 150.28 10.22 150.76 9.44C151.46 8.32 151.63 7.99 151.58 7.91C151.52 7.81 150.9 7.79 145.29 7.76L139.06 7.73 139.06 6.03L139.06 4.32 144.86 4.31L150.66 4.29 151.26 3.35C151.58 2.84 152.17 1.94 152.56 1.35C153.01 0.68 153.26 0.24 153.24 0.17C153.2 0.08 152.29 0.07 144.6 0.07L136 0.07 135.44 0.34M154.18 0.15C154.16 0.2 154.15 4.42 154.16 9.53L154.18 18.83 162.28 18.84C171.11 18.86 170.54 18.89 170.66 18.49C170.69 18.42 170.81 18.2 170.93 18.01C171.05 17.82 171.46 17.13 171.85 16.48C172.23 15.82 172.6 15.2 172.67 15.1C172.82 14.88 172.83 14.75 172.71 14.65C172.64 14.59 170.77 14.57 166.05 14.55L159.49 14.54 159.47 7.39C159.46 2.25 159.43 0.23 159.38 0.16C159.27 0.03 154.23 0.02 154.18 0.15M183.25 0.15C182.85 0.29 182.61 0.55 182.22 1.24C181.75 2.08 180.58 4.1 179.68 5.65C179.31 6.27 178.87 7.03 178.69 7.35C177.78 8.96 177.26 9.87 176.68 10.86C176.33 11.46 175.84 12.3 175.59 12.73C175.34 13.16 174.99 13.76 174.81 14.06C174.63 14.36 174.2 15.11 173.84 15.73C173.49 16.35 172.93 17.29 172.61 17.82C172.3 18.36 172.05 18.81 172.07 18.84C172.09 18.86 173.34 18.87 174.85 18.87C178.06 18.87 177.6 19.03 178.39 17.67C178.7 17.14 179.09 16.47 179.27 16.17C179.61 15.59 180.36 14.31 181.01 13.17C181.23 12.8 181.63 12.11 181.91 11.64C182.19 11.17 182.76 10.19 183.19 9.45C184.49 7.18 185.01 6.33 185.12 6.33C185.19 6.33 185.36 6.59 185.56 6.96C185.74 7.31 186.04 7.84 186.21 8.14C186.39 8.44 186.74 9.06 187 9.53C187.44 10.34 187.9 11.13 188.63 12.36C188.81 12.66 189.08 13.13 189.23 13.41C189.38 13.69 189.68 14.22 189.9 14.59C190.12 14.96 190.3 15.28 190.3 15.29C190.3 15.31 190.37 15.44 190.47 15.59C190.56 15.74 190.99 16.5 191.42 17.27C191.86 18.05 192.27 18.74 192.34 18.8C192.49 18.93 198.21 18.93 198.25 18.8C198.28 18.72 198.08 18.37 196.73 16.14C195.59 14.23 195.42 13.94 194.11 11.68C193.47 10.55 192.85 9.5 192.75 9.33C192.53 8.98 191.59 7.32 191.25 6.71C191.13 6.48 190.85 5.99 190.64 5.62C189.55 3.72 189.11 2.93 188.53 1.87C187.51 0.01 187.61 0.07 185.16 0.07C184.16 0.08 183.37 0.11 183.25 0.15M199.44 0.15C199.32 0.27 199.31 18.72 199.43 18.85C199.49 18.91 200.05 18.93 201.53 18.93C203.8 18.92 203.9 18.9 204.31 18.42C204.66 17.99 204.66 17.93 204.66 12.97C204.66 9.27 204.68 8.37 204.75 8.37C204.8 8.37 205.08 8.64 205.38 8.97C205.68 9.3 206.74 10.44 207.73 11.5C208.72 12.57 209.88 13.82 210.31 14.28C210.73 14.74 211.18 15.17 211.29 15.23C211.63 15.41 213.96 15.45 214.56 15.29L214.99 15.17 217.21 12.81C220.24 9.59 221.6 8.24 221.68 8.37C221.72 8.43 221.75 10.35 221.75 13.07C221.76 18.04 221.76 18.03 222.13 18.45C222.51 18.86 222.52 18.86 224.85 18.84L226.96 18.83 226.96 9.46L226.96 0.1 224.93 0.08C222.31 0.05 222.54-0.02 221.35 1.24C220.85 1.78 219.53 3.16 218.42 4.32C217.31 5.48 215.7 7.17 214.84 8.07C213.98 8.97 213.25 9.71 213.21 9.72C213.12 9.74 211.55 8.15 209.8 6.27C209.09 5.5 208.17 4.52 207.76 4.09C207.35 3.66 206.4 2.65 205.67 1.86C203.89-0.04 204.24 0.11 201.6 0.08C200.02 0.07 199.5 0.08 199.44 0.15M232.06 0.22C231.3 0.55 230.78 1.1 230.35 2.02L230.16 2.42 230.14 10.58C230.13 16.82 230.14 18.76 230.21 18.84C230.31 18.96 248.46 18.95 248.66 18.82C248.73 18.78 249.01 18.37 249.3 17.9C249.58 17.44 250.07 16.63 250.39 16.1C250.71 15.58 251.03 15.07 251.11 14.96C251.44 14.55 251.87 14.57 243.28 14.55L235.47 14.54 235.47 13.04L235.47 11.54 241.2 11.52C246.55 11.51 246.93 11.5 247.03 11.39C247.08 11.32 247.49 10.69 247.94 9.97C248.38 9.26 248.89 8.48 249.07 8.23C249.4 7.76 249.46 7.56 249.3 7.43C249.24 7.38 247.28 7.35 242.34 7.34L235.47 7.32 235.47 5.82L235.47 4.32 242 4.31C247.95 4.29 248.55 4.28 248.66 4.18C248.73 4.12 248.97 3.77 249.2 3.41C249.67 2.68 250.1 2.01 250.79 0.97C251.16 0.4 251.23 0.25 251.16 0.17C251.09 0.08 249.82 0.07 241.74 0.07L232.41 0.07 232.06 0.22M183.54 10.84C183.44 10.92 182.88 11.8 182.88 11.88C182.88 11.9 182.74 12.14 182.58 12.41C182.06 13.27 181.51 14.24 181.51 14.3C181.51 14.37 182.16 14.73 182.47 14.83C182.82 14.95 186.77 15.01 187.43 14.91C187.96 14.83 188.71 14.51 188.77 14.34C188.79 14.29 188.62 13.9 188.38 13.47C188.15 13.05 187.77 12.35 187.53 11.91C187.3 11.48 187.06 11.05 187 10.94L186.9 10.76 185.28 10.76C184.08 10.76 183.62 10.78 183.54 10.84M23.11 27.99C21.79 28.09 19.97 28.19 17.57 28.29C16.24 28.35 14.6 28.42 13.92 28.46C13.25 28.5 11.7 28.57 10.49 28.63C9.27 28.69 7.2 28.79 5.89 28.86C4.58 28.94 2.82 29.03 1.98 29.07C1.14 29.11 0.43 29.16 0.42 29.18C0.32 29.27 0.62 29.3 2.19 29.35C3.14 29.38 4.56 29.44 5.34 29.48C6.13 29.51 7.19 29.56 7.69 29.58C9 29.64 12.95 29.81 14.88 29.89C16.49 29.96 18.91 30.09 21.65 30.24C22.42 30.28 23.48 30.32 24 30.32L24.95 30.33 24.95 29.14L24.95 27.95 24.37 27.94C24.06 27.94 23.49 27.96 23.11 27.99M224.92 28C224.9 28.05 224.89 28.59 224.9 29.21L224.92 30.33 225.4 30.35C225.66 30.36 226.81 30.33 227.95 30.27C229.09 30.21 231.11 30.12 232.44 30.06C233.77 30 235.52 29.93 236.32 29.89C237.13 29.85 239.17 29.76 240.85 29.68C242.54 29.61 244.44 29.52 245.07 29.48C245.71 29.44 246.93 29.39 247.8 29.37C250.97 29.3 251.18 29.18 248.31 29.07C246.47 29 244 28.89 241.16 28.73C240.46 28.69 239.29 28.63 238.54 28.6C236.72 28.51 233.03 28.34 231.18 28.26C230.36 28.22 228.72 28.13 227.54 28.05C224.99 27.89 224.96 27.89 224.92 28';
+  'M136.25 0.4C136.09 0.62 135.81 1.09 135.64 1.46L135.32 2.12 135.34 10.56L135.37 19 137.95 19L140.53 19 140.57 15.44L140.62 11.87 142.12 11.87C142.95 11.86 145.41 11.85 147.59 11.84L151.56 11.82 152 11.13C153.77 8.35 154 7.95 153.93 7.87C153.88 7.83 150.94 7.78 147.3 7.77C142.43 7.75 140.73 7.72 140.66 7.64C140.61 7.57 140.58 6.89 140.6 5.99L140.62 4.46 146.91 4.41L153.2 4.36 154.39 2.27C155.05 1.12 155.57 0.14 155.54 0.09C155.52 0.05 151.23 0.01 146.02 0L136.55-0.01 136.25 0.4M156.82 0.12C156.74 0.22 156.72 2.63 156.74 9.63L156.76 19 165.18 19.03L173.6 19.05 173.82 18.75C173.95 18.58 174.4 17.81 174.83 17.03C175.26 16.26 175.69 15.51 175.79 15.36C175.9 15.2 175.94 15.06 175.89 15.01C175.84 14.96 172.94 14.91 168.96 14.9L162.11 14.87 162.09 7.56C162.07 2.66 162.03 0.21 161.97 0.13C161.81-0.05 156.97-0.06 156.82 0.12M185.77 0.35C185.65 0.55 184.87 1.93 184.04 3.43C182.05 7.03 181.57 7.88 179.98 10.63C179.23 11.9 178.37 13.39 178.06 13.94C177.75 14.49 177.15 15.53 176.71 16.26C175.56 18.21 175.2 18.87 175.26 18.97C175.28 19.01 176.55 19.05 178.06 19.05L180.82 19.05 181.23 18.28C181.46 17.85 181.88 17.08 182.15 16.56C182.42 16.05 182.96 15.08 183.34 14.42C183.71 13.76 184.02 13.19 184.02 13.17C184.02 13.14 184.1 13.01 184.2 12.87C184.35 12.66 185 11.5 186.04 9.62C186.18 9.36 186.33 9.11 186.37 9.06C186.41 9 186.64 8.58 186.89 8.12C187.6 6.77 188.06 6.01 188.15 6.01C188.2 6.01 188.48 6.45 188.78 6.99C189.08 7.52 189.45 8.19 189.61 8.46C189.76 8.74 190.03 9.22 190.2 9.52C190.37 9.83 190.61 10.26 190.73 10.46C190.85 10.67 191.1 11.13 191.3 11.5C191.49 11.86 191.73 12.26 191.83 12.4C191.92 12.54 192 12.68 192 12.72C192 12.75 192.08 12.89 192.18 13.03C192.27 13.17 192.52 13.6 192.72 13.98C192.93 14.37 193.4 15.21 193.77 15.84C194.14 16.48 194.44 17.01 194.44 17.03C194.44 17.05 194.65 17.44 194.91 17.89C195.17 18.35 195.42 18.78 195.46 18.86C195.55 19.02 201.06 19.13 201.22 18.97C201.29 18.9 200.69 17.76 200.06 16.75C199.93 16.54 199.22 15.32 198.48 14.03C197.74 12.74 196.87 11.23 196.54 10.67C196.21 10.12 195.94 9.64 195.94 9.62C195.94 9.6 195.74 9.23 195.49 8.8C195.23 8.37 194.84 7.69 194.62 7.27C193.14 4.58 190.72 0.29 190.58 0.13C190.5 0.03 190 0 188.24 0L186 0 185.77 0.35M202.79 0.08L202.46 0.14 202.46 9.57L202.46 19 205 19L207.53 19 207.56 13.56C207.57 10.57 207.61 8.09 207.66 8.05C207.7 8 208.51 8.78 209.46 9.77C210.41 10.77 211.75 12.16 212.43 12.87C213.1 13.58 213.82 14.35 214.02 14.59L214.37 15.01 216.21 15.01L218.05 15.01 219.47 13.49C221.45 11.36 224.79 7.98 224.91 7.98C224.99 7.98 225.02 9.4 225.02 13.44C225.03 16.44 225.06 18.93 225.11 18.97C225.15 19.02 226.32 19.04 227.71 19.03L230.24 19 230.24 9.62C230.25 4.16 230.21 0.19 230.16 0.12C230.1 0.03 229.53 0 227.9 0L225.72 0 222.67 3.17C221 4.91 218.87 7.13 217.94 8.09C217.02 9.06 216.23 9.85 216.2 9.85C216.16 9.85 215.99 9.69 215.82 9.49C215.65 9.29 213.91 7.4 211.95 5.29C210 3.18 208.1 1.13 207.73 0.73L207.06 0 205.09 0.01C204.01 0.02 202.97 0.05 202.79 0.08M234.87 0.12C234.61 0.32 233.67 1.89 233.6 2.25C233.56 2.43 233.52 6.28 233.52 10.79L233.52 19 243.41 19L253.29 19 254.36 17.08C254.95 16.02 255.43 15.1 255.44 15.04C255.44 14.95 253.68 14.92 247.11 14.9L238.78 14.87 238.78 13.33L238.78 11.78 245.04 11.73C249.03 11.7 251.33 11.65 251.39 11.59C251.62 11.34 253.84 7.75 253.82 7.67C253.8 7.61 251.21 7.57 246.28 7.56L238.78 7.55 238.78 6.01L238.78 4.46 245.93 4.43L253.08 4.41 253.94 2.89C254.42 2.05 254.95 1.11 255.12 0.81C255.3 0.5 255.42 0.2 255.4 0.13C255.33-0.05 235.09-0.06 234.87 0.12M187.24 10.74C186.98 11.08 185.62 13.56 185.62 13.71C185.62 13.83 190.85 13.82 190.92 13.7C190.99 13.59 190.74 13.09 189.96 11.79C189.12 10.39 189.15 10.42 188.25 10.42C187.51 10.42 187.5 10.42 187.24 10.74M20.36 28.02C20.23 28.04 19.26 28.1 18.21 28.15C14.34 28.34 5.17 28.87 3.38 29C2.68 29.05 1.79 29.09 1.4 29.09C-0.46 29.09-0.29 29.33 1.62 29.41C3.37 29.48 5.79 29.6 9.48 29.8C10.9 29.88 13.37 30 14.97 30.08C16.57 30.16 18.51 30.25 19.28 30.3C20.16 30.34 20.74 30.34 20.81 30.28C20.9 30.21 20.93 29.9 20.91 29.1C20.88 27.94 20.89 27.95 20.36 28.02M233.9 28.08C233.87 28.15 233.86 28.69 233.87 29.28L233.9 30.36 235.07 30.35C235.72 30.34 237.58 30.27 239.2 30.18C240.83 30.1 243 29.99 244.04 29.93C245.07 29.88 247.39 29.75 249.21 29.65C251.02 29.55 253.02 29.46 253.66 29.46C256.11 29.43 255.88 29.2 253.3 29.09C252.28 29.04 249.93 28.92 248.07 28.81C246.21 28.71 243.49 28.56 242.02 28.48C240.55 28.41 238.71 28.3 237.94 28.25C237.16 28.2 236.06 28.14 235.5 28.11C234.93 28.07 234.35 28.03 234.21 28C234.03 27.97 233.93 27.99 233.9 28.08';

diff --git a/src/components/layout/Header/Header.module.css b/src/components/layout/Header/Header.module.css
@@ -36,14 +36,15 @@
   box-shadow: var(--shadow-md);
 }
 
-/* Once scrolled, a solid strip behind the floating bar hides the page
-   scrolling underneath, including the gaps around the pill */
+/* Once scrolled, a strip behind the floating bar hides the page scrolling
+   underneath (including the gaps around the pill), then fades out below it
+   so there is no hard edge */
 .header::before {
   content: '';
   position: absolute;
-  inset: 0 0 calc(var(--space-3) * -1);
+  inset: 0 0 calc(var(--space-8) * -1);
   z-index: -1;
-  background: var(--color-bg);
+  background: var(--gradient-header-fade);
   opacity: 0;
   transition: opacity var(--duration-base) var(--ease-out);
 }

diff --git a/src/styles/theme.css b/src/styles/theme.css
@@ -141,6 +141,14 @@
     color-mix(in srgb, var(--color-cream) 88%, transparent) 70%,
     var(--color-cream) 100%
   );
+  /* Behind the sticky header: solid page background, fading out over the
+     last 2rem so scrolled content dissolves instead of meeting a hard edge */
+  --gradient-header-fade: linear-gradient(
+    180deg,
+    var(--color-bg) 0%,
+    var(--color-bg) calc(100% - 2rem),
+    color-mix(in srgb, var(--color-bg) 0%, transparent) 100%
+  );
   --gradient-dark-fade: linear-gradient(
     180deg,
     transparent 0%,
